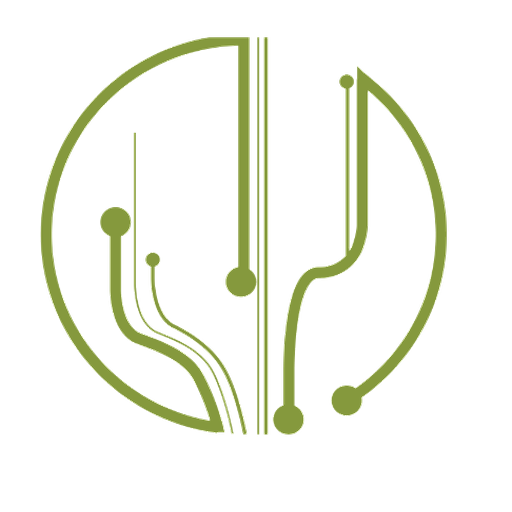
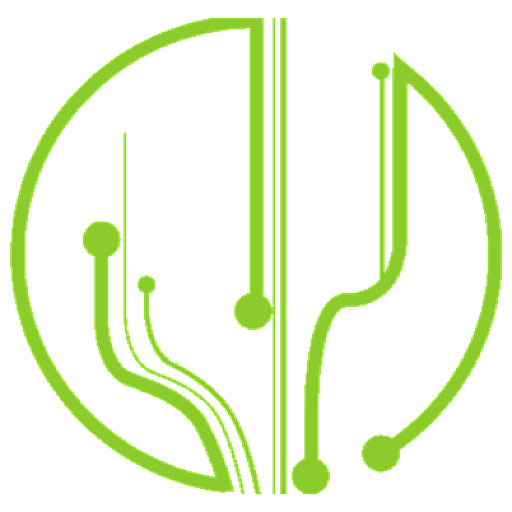
Make the C4C7OPS isotype larger, greener, and tighter in headers.

Changed region(s): [[0.0, 0.0312, 1.0, 0.9688]]

diff --git a/app/evento/page.tsx b/app/evento/page.tsx
@@ -519,8 +519,8 @@ export default function Home() {
       {/* ── Header ── */}
       <header className="fixed top-0 left-0 right-0 z-50 min-h-[var(--header-height)] border-b border-[#7F9B28]/20 bg-black/95 backdrop-blur-xl">
         <div className="mx-auto flex h-[var(--header-height)] max-w-7xl items-center justify-between px-6 lg:px-8">
-          <button type="button" onClick={() => scrollTo("#hero")} className="flex min-w-0 shrink items-center gap-2.5 py-2 cursor-pointer">
-            <Image src="/c4c7ops-isotype.png" alt="" width={40} height={40} priority className="h-9 w-9 shrink-0 object-contain" />
+          <button type="button" onClick={() => scrollTo("#hero")} className="flex min-w-0 shrink items-center gap-3 py-2 cursor-pointer">
+            <Image src="/c4c7ops-isotype.png" alt="" width={56} height={56} priority className="h-11 w-11 shrink-0 object-contain sm:h-12 sm:w-12" />
             <Image src="/logo-c4c7ops-white.png" alt="C4C7OPS" width={168} height={44} priority className="h-8 w-auto max-w-[120px] object-contain sm:h-9 sm:max-w-none lg:h-10" />
           </button>
 

diff --git a/components/cloud-confessions/CloudConfessionsLanding.tsx b/components/cloud-confessions/CloudConfessionsLanding.tsx
@@ -287,14 +287,14 @@ export default function CloudConfessionsLanding() {
 
       <header className="fixed inset-x-0 top-0 z-50 border-b border-white/8 bg-black/80 backdrop-blur-2xl">
         <div className="mx-auto flex h-20 max-w-7xl items-center justify-between gap-4 px-5 sm:gap-6 sm:px-8">
-          <a href="#inicio" aria-label="Ir al inicio" className="flex min-w-0 shrink items-center gap-2.5">
+          <a href="#inicio" aria-label="Ir al inicio" className="flex min-w-0 shrink items-center gap-3">
             <Image
               src="/c4c7ops-isotype.png"
               alt=""
-              width={40}
-              height={40}
+              width={56}
+              height={56}
               priority
-              className="h-9 w-9 shrink-0 object-contain"
+              className="h-11 w-11 shrink-0 object-contain sm:h-12 sm:w-12"
             />
             <Image
               src="/logo-c4c7ops-white.png"
